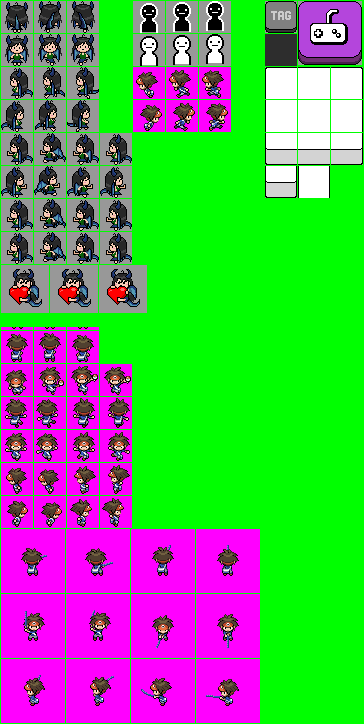
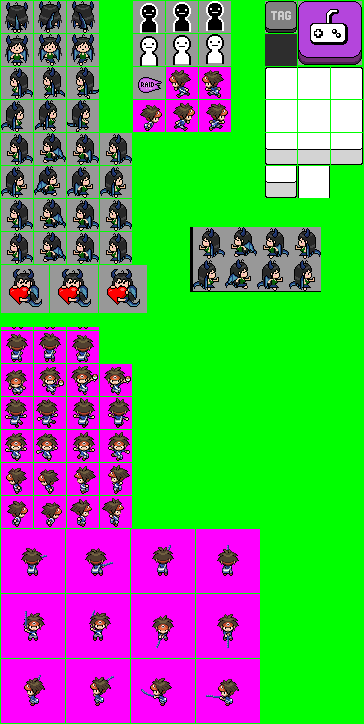
on a essayé de faire fonctionner le tir sans succès ici

Changed region(s): [[0.5137, 0.3039, 0.9066, 0.4254], [0.3626, 0.0912, 0.4533, 0.1519]]

diff --git a/phaserZeldalike.html b/phaserZeldalike.html
@@ -26,6 +26,7 @@ class scene1 extends Phaser.Scene{
         this.load.spritesheet('heroWalk', 'assets/sprite sheets fusette.png',
         { frameWidth: 32, frameHeight: 32 });
         this.load.image('map', 'assets/map_test.jpg');
+        this.load.image('bullet', 'asset/bullet test.png');
         
         //Tiled
         this.load.tilemapTiledJSON("Background", 'assets/tiled level/background_test..json');
@@ -127,8 +128,8 @@ class scene1 extends Phaser.Scene{
 
         this.cursors = this.input.keyboard.createCursorKeys();
         this.keys = this.input.keyboard.addKeys({
-            z: this.input.keyboard.addKeys('Z')
-        })
+            z:  Phaser.Input.Keyboard.KeyCodes.Z,
+        });
 
         //CAMERA
         this.cameras.main.zoom = 2;
@@ -136,11 +137,12 @@ class scene1 extends Phaser.Scene{
         this.cameras.main.setBounds(0, 0, 5760, 1080);
         this.cameras.main.startFollow(this.player);  
 
-
     }
 
     update(){
-        if (this.cursors.z.isDown) {this.attaque = true;}
+        if (this.keys.z.isDown) {if (this.attaque == false) {
+            this.attaque = true;
+        }}
 
         //Déplacement vertical
         if (this.cursors.up.isDown){
@@ -188,7 +190,10 @@ class scene1 extends Phaser.Scene{
         //animations
 
         if (this.attaque == true) {
-            this.player.anim.play('FusetteShootLeft')
+            this.player.anims.play('FusetteShootLeft', true);
+            this.player.setVelocityX(50);
+            if (this.player.anims.currentFrame.index == 3) {this.attaque = false; this.player.anims.play('idleLeft', true);}
+
         }
         else {
         if (this.player.body.velocity.y > 0) {
